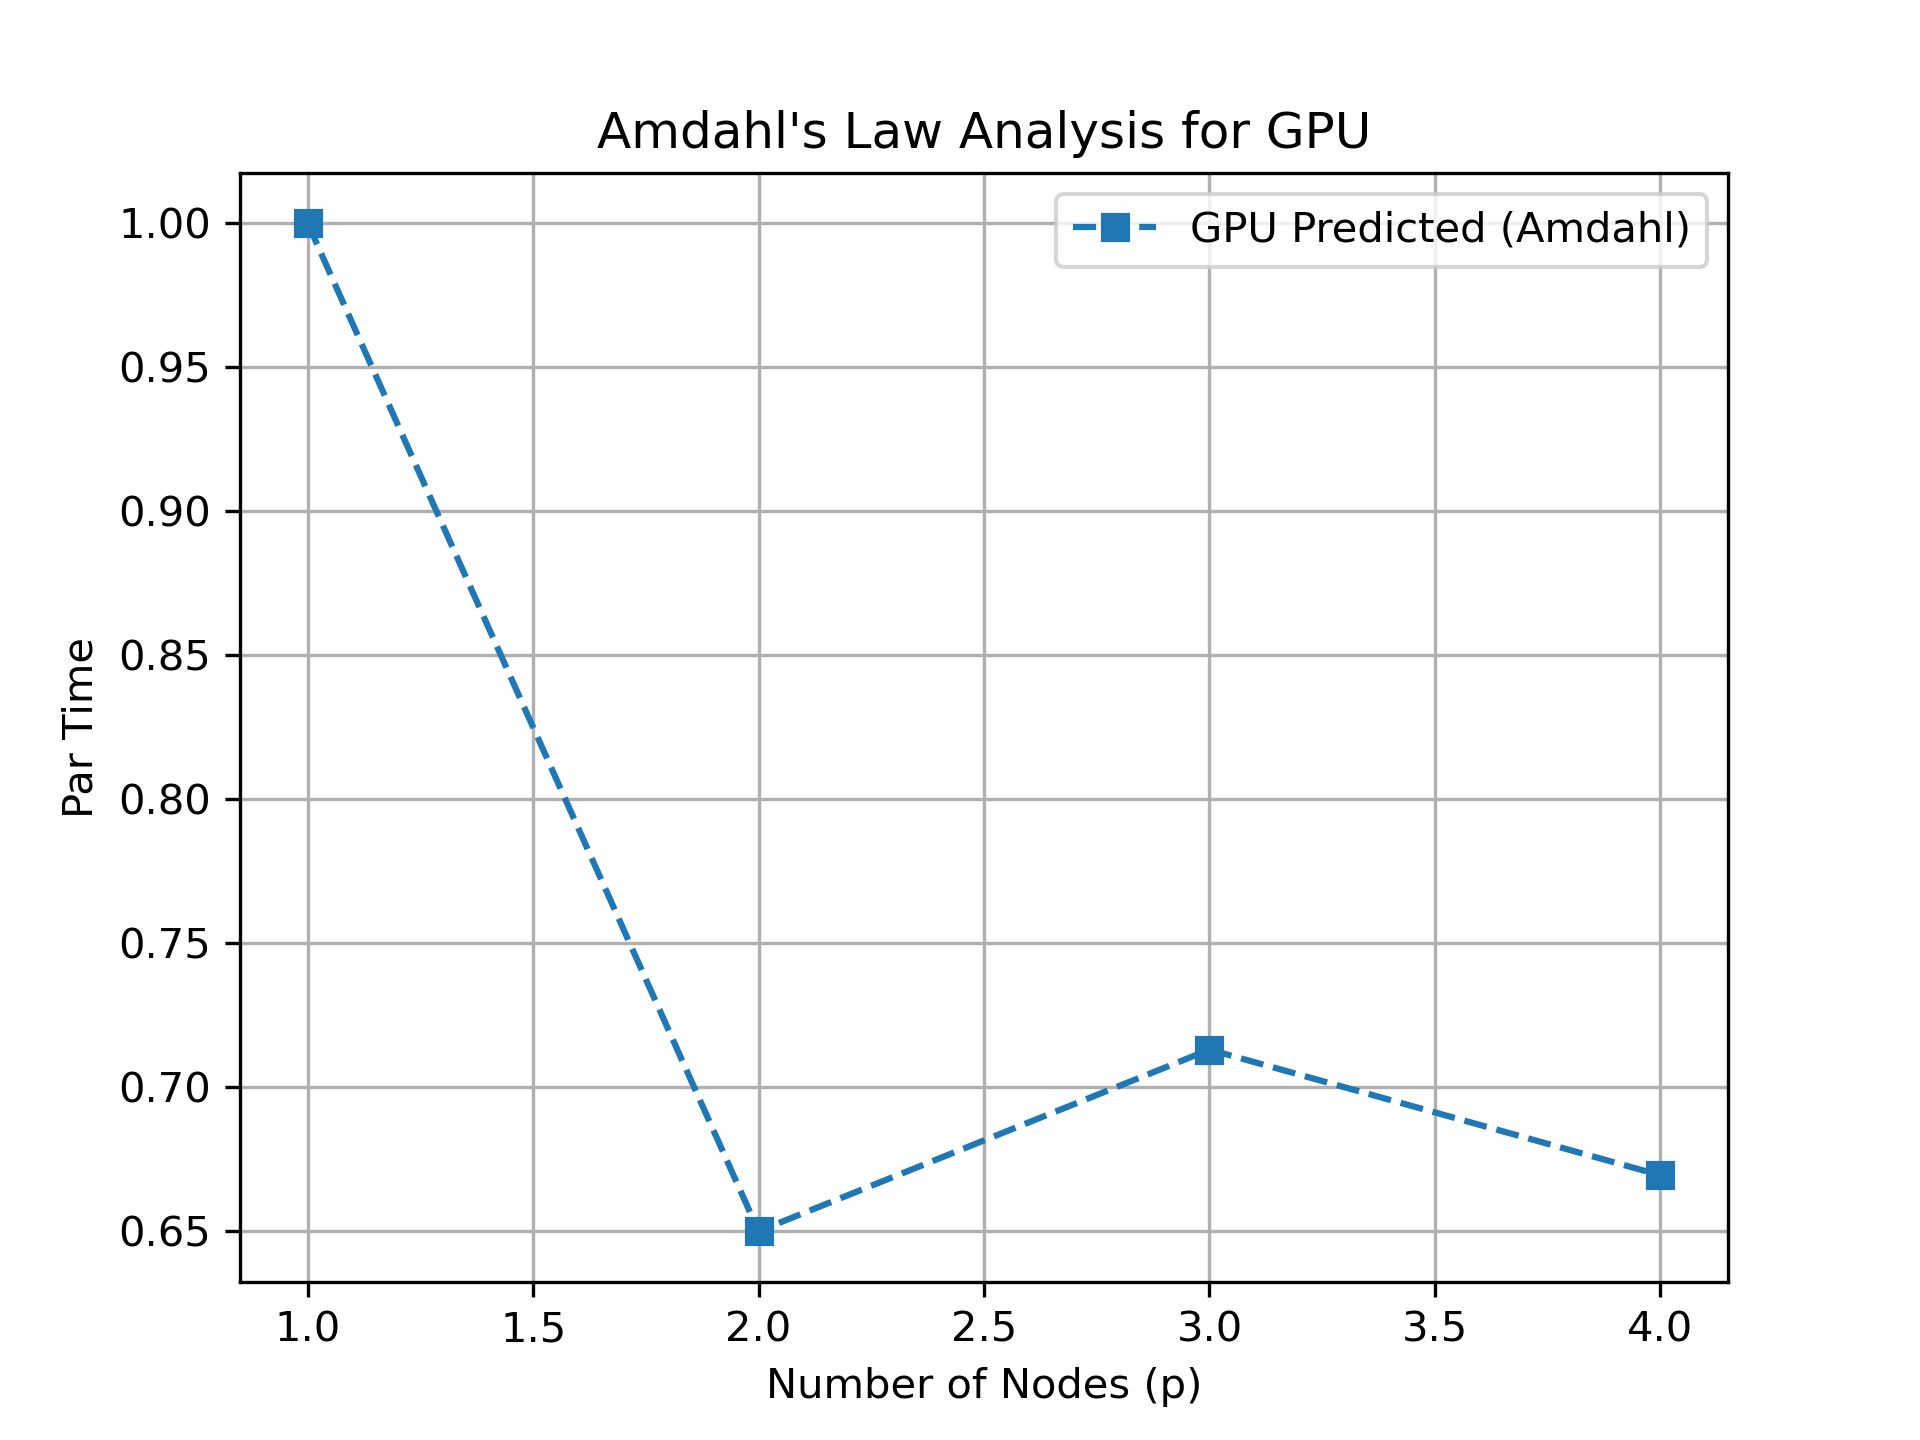
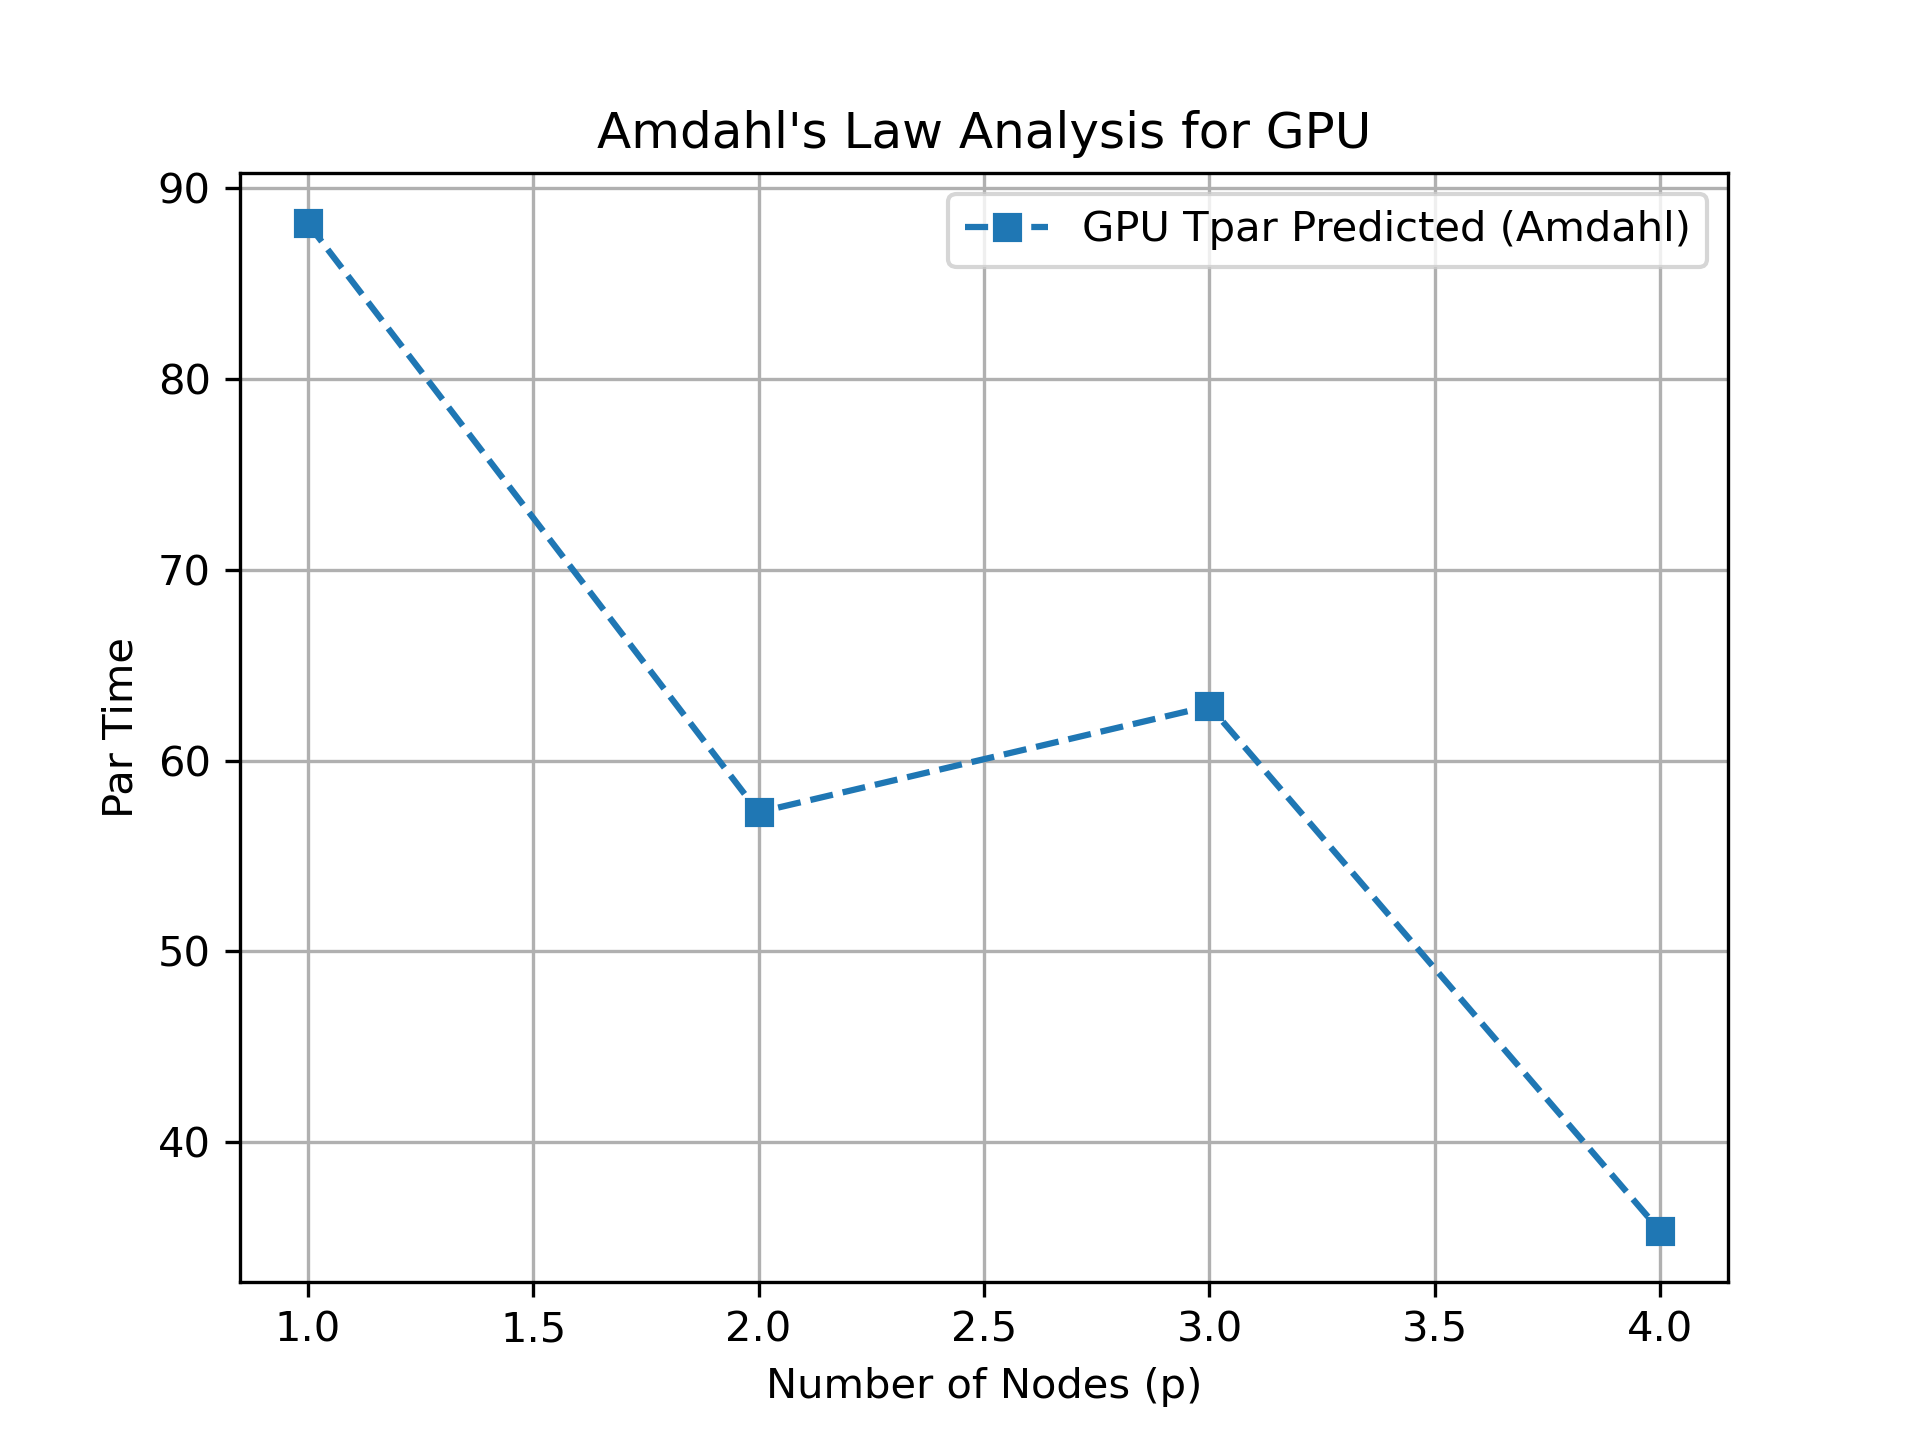
final plots

diff --git a/main.py b/main.py
@@ -88,10 +88,11 @@ def read_data(filename):
 
 def compute_speedup(data):
     speedup_results = []
+    t_seq = data[0][1]
     for p, t_total, t_reg, t_err, t_adjust, t_init in data:
         X = (t_reg + t_err + t_adjust + t_init) / t_total  # Compute X
         S_predicted = 1 / (1 - X + (X / p))  # Amdahl's law speedup
-        Tpar_p = 1 / S_predicted  # Parallel time prediction
+        Tpar_p = t_seq * 1 / S_predicted  # Parallel time prediction
         speedup_results.append((p, S_predicted, Tpar_p))
     return speedup_results
 
@@ -104,6 +105,7 @@ def plot_results(data_gpu, data_cpu, speedup_results_gpu, speedup_results_cpu):
         plt.plot(p_values_gpu, t_total_gpu, 'o-', label='GPU Total Time')
         plt.plot(p_values_gpu, t_reg_gpu, 'o-', label='GPU Reg Time')
         plt.plot(p_values_gpu, t_err_gpu, 'o-', label='GPU Irr Time')
+        plt.plot(p_values_gpu, Tpar_p_gpu,'s--',c="b",label='GPU Tpar Predicted (Amdahl)')
         plt.xlabel('Number of Nodes (p)')
         plt.ylabel('Time')
         plt.title("Amdahl's Law Analysis for GPU")
@@ -112,19 +114,12 @@ def plot_results(data_gpu, data_cpu, speedup_results_gpu, speedup_results_cpu):
         plt.savefig("gpu.png",dpi=300)
         plt.show()
 
-        plt.plot(p_values_gpu, Tpar_p_gpu, 's--', label='GPU Predicted (Amdahl)')
-        plt.xlabel('Number of Nodes (p)')
-        plt.ylabel('Par Time')
-        plt.title("Amdahl's Law Analysis for GPU")
-        plt.legend()
-        plt.grid()
-        plt.savefig("gpu_par.png",dpi=300)
-        plt.show()
+        
 
         plt.plot(p_speedup_gpu, S_predicted_gpu, 's--', label='GPU speedupd (Amdahl)')
         plt.xlabel('Number of Nodes (p)')
         plt.ylabel('Speedup')
-        plt.title("Amdahl's Law Analysis for CPU")
+        plt.title("Amdahl's Law Analysis for GPU")
         plt.legend()
         plt.grid()
         plt.savefig("gpu_speed.png",dpi=300)
@@ -136,6 +131,7 @@ def plot_results(data_gpu, data_cpu, speedup_results_gpu, speedup_results_cpu):
         plt.plot(p_values_cpu, t_total_cpu, 'o-', label='CPU Total Time')
         plt.plot(p_values_cpu, t_reg_cpu, 'o-', label='CPU Reg Time')
         plt.plot(p_values_cpu, t_err_cpu, 'o-', label='CPU Irr Time')
+        plt.plot(p_values_cpu, Tpar_p_cpu,'s--',c="b",label='CPU Tpar Predicted (Amdahl)')
         plt.xlabel('Number of Nodes (p)')
         plt.ylabel('Time ')
         plt.title("Amdahl's Law Analysis for CPU")
@@ -144,14 +140,6 @@ def plot_results(data_gpu, data_cpu, speedup_results_gpu, speedup_results_cpu):
         plt.savefig("cpu.png",dpi=300)
         plt.show()
 
-        plt.plot(p_values_cpu, Tpar_p_cpu, 's--', label='CPU Predicted (Amdahl)')
-        plt.xlabel('Number of Nodes (p)')
-        plt.ylabel('Par Time')
-        plt.title("Amdahl's Law Analysis for CPU")
-        plt.legend()
-        plt.grid()
-        plt.savefig("cpu_par.png",dpi=300)
-        plt.show()
 
         plt.plot(p_speedup_cpu, S_predicted_cpu, 's--', label='CPU speedupd (Amdahl)')
         plt.xlabel('Number of Nodes (p)')
